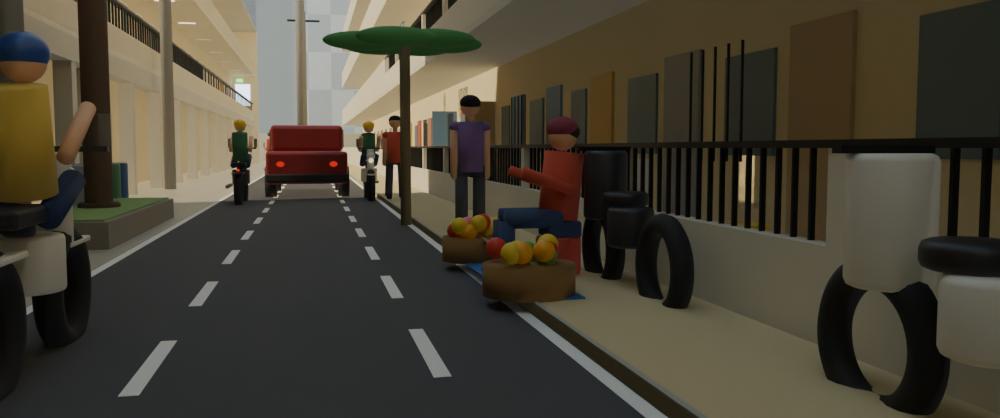
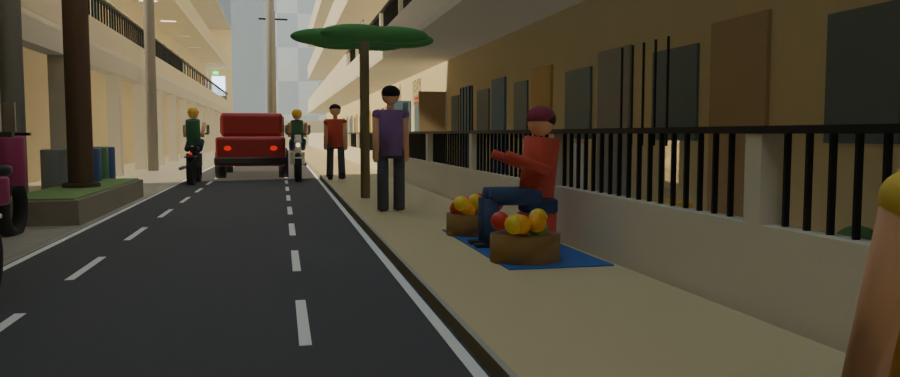
Sửa xuyên vật thể: dời lòng đường/vỉa hè/làn, quầy hàng rong nằm gọn trong vỉa hè, lối đi bộ riêng
Claude-Session: https://claude.ai/code/session_015xtvRhLRyfqVC2mbHabEYR

diff --git a/episodes/hem-co-chuyen/ho-so-02-nguoi-lam-thay/assets/boi-canh-3d/ktt_ha_noi.py b/episodes/hem-co-chuyen/ho-so-02-nguoi-lam-thay/assets/boi-canh-3d/ktt_ha_noi.py
@@ -137,15 +137,14 @@ def build(X, coll, night, mode):
 
     # ------------------------------------------------------------ PHÂN LÀN: vỉa hè phía tây cho người đi bộ, lòng đường nhựa có vạch kẻ, vạch qua đường
     YA, YB = -12.6, 56.0
-    B('via_he', -7.55, -6.5, YA, YB, GZ, GZ + 0.08, mat('#c9b88a', 0.85), coll=coll)                                  # vỉa hè nâng 8 cm
-    B('via_he_bo', -6.53, -6.5, YA, YB, GZ, GZ + 0.085, mat('#a8a496', 0.8), coll=coll)                               # bó vỉa
-    B('long_duong', -6.5, -3.4, YA, YB, GZ, GZ + 0.006, mat('#4a4a4c', 0.9), coll=coll)                                # mặt đường nhựa
+    B('via_he', -7.55, -6.05, YA, YB, GZ, GZ + 0.08, mat('#c9b88a', 0.85), coll=coll)                                  # vỉa hè nâng 8 cm, rộng 1,5 m
+    B('via_he_bo', -6.08, -6.05, YA, YB, GZ, GZ + 0.085, mat('#a8a496', 0.8), coll=coll)                               # bó vỉa
+    B('long_duong', -6.05, -3.1, YA, YB, GZ, GZ + 0.006, mat('#4a4a4c', 0.9), coll=coll)                                # mặt đường nhựa
     wl = mat('#f0eee4', 0.7)
-    for xl in (-6.45, -3.45): B(f'vach_bien{xl}', xl - 0.04, xl + 0.04, YA, YB, GZ + 0.006, GZ + 0.0085, wl, coll=coll)   # vạch biên liền
-    for xl in (-5.75, -4.45):
-        for k in range(int((YB - YA) / 2.0)): B(f'vach_phan_lan{xl}_{k}', xl - 0.04, xl + 0.04, YA + 0.2 + k * 2.0, YA + 1.2 + k * 2.0, GZ + 0.006, GZ + 0.0085, wl, coll=coll)   # vạch đứt phân làn
-    for k in range(5): B(f'vach_qua_duong{k}', -6.3 + k * 0.62, -6.0 + k * 0.62, -6.4, -4.0, GZ + 0.006, GZ + 0.0085, wl, coll=coll)   # vạch đi bộ qua đường
-    for k in range(4): B(f'vach_dung{k}', -6.45 + k * 0.75, -5.9 + k * 0.75, -3.6, -3.45, GZ + 0.006, GZ + 0.0085, wl, coll=coll) if False else None
+    for xl in (-6.0, -3.15): B(f'vach_bien{xl}', xl - 0.03, xl + 0.03, YA, YB, GZ + 0.006, GZ + 0.0085, wl, coll=coll)   # vạch biên liền
+    for xl in (-5.3, -3.75):
+        for k in range(int((YB - YA) / 2.0)): B(f'vach_phan_lan{xl}_{k}', xl - 0.03, xl + 0.03, YA + 0.2 + k * 2.0, YA + 1.2 + k * 2.0, GZ + 0.006, GZ + 0.0085, wl, coll=coll)   # vạch đứt phân làn
+    for k in range(5): B(f'vach_qua_duong{k}', -5.85 + k * 0.58, -5.6 + k * 0.58, -6.4, -4.0, GZ + 0.006, GZ + 0.0085, wl, coll=coll)   # vạch đi bộ qua đường
     # ------------------------------------------------------------ quán trà đá vỉa hè: bàn thấp, ghế nhựa, ô dù, ấm, bình thuỷ, cốc
     qx, qy = -2.4, -8.0
     B('quan_ban', qx - 0.3, qx + 0.3, qy - 0.4, qy + 0.4, GZ + 0.5, GZ + 0.54, mat('#6a4a30', 0.8), bevel=0.01, coll=coll)
@@ -238,20 +237,21 @@ def build(X, coll, night, mode):
         else: P(sphere(f'env_ktt_{name}_toc', W - 0.05, 0, 1.06, 0.11, mat(toc, 0.9), scale=(1, 1, 0.8), coll=coll)) if non == 'khan' else None
         return root
     zv = GZ + 0.08
-    # 1) bà bán rau: ngồi trên vỉa hè, nón lá, rổ rau + cân đòn, ô che nắng
-    nguoi_ngoi('ban_rau', -7.0, -1.5, zv, False, '#7a5a8a', '#2a2a2a', 'non')
-    B('rau_chieu', -6.75, -5.9 - 0.2, -2.2, -0.8, zv, zv + 0.012, mat('#a8905a', 0.9), coll=coll)
-    for k, dy in enumerate((-0.2, 0.75)):
-        cyl(f'env_ktt_ro_rau{k}', -6.4, -1.5 + dy - 0.4 + 0.45 * k, zv + 0.09, 0.28, 0.16, mat('#b08a4a', 0.9), coll=coll)
-        for j in range(9): sphere(f'env_ktt_rau{k}_{j}', -6.4 + rnd.uniform(-0.2, 0.2), -1.5 + dy - 0.4 + 0.45 * k + rnd.uniform(-0.2, 0.2), zv + 0.2 + rnd.uniform(0, 0.08), rnd.uniform(0.07, 0.11), mat(rnd.choice(['#4f8a3a', '#6aa04a', '#3a7a3a', '#8ab04a']), 0.8), scale=(1, 1, 0.6), coll=coll)
-    cyl('env_ktt_du_rau_cot', -7.3, -1.5, zv + 1.15, 0.02, 2.3, mat('#6a6a64', 0.5, 0.6), coll=coll)
-    bm = bmesh.new(); bmesh.ops.create_cone(bm, cap_ends=True, segments=16, radius1=1.2, radius2=0.03, depth=0.35); X._mesh_obj('env_ktt_du_rau', bm, (X.mx(-7.3), -1.5, zv + 2.3), mat('#d8a02a', 0.7), True, coll)
-    # 2) cô bán trái cây: khăn trùm đầu, ghế nhựa thấp, đôi thúng + quang gánh đặt xuống đất, cân
-    nguoi_ngoi('ban_trai_cay', -7.0, 14.0, zv, False, '#c4503a', '#3a4a6a', 'khan', ghe='#c24a3a')
-    cyl('env_ktt_quang_ganh', -6.55, 14.0, zv + 0.2, 0.014, 1.9, mat('#a8905a', 0.7), axis='Y', coll=coll)
-    for k, dy in enumerate((-0.85, 0.85)):
-        cyl(f'env_ktt_thung_qua{k}', -6.55, 14.0 + dy, zv + 0.1, 0.3, 0.2, mat('#8a6a3a', 0.9), coll=coll)
-        for j in range(10): sphere(f'env_ktt_trai{k}_{j}', -6.55 + rnd.uniform(-0.2, 0.2), 14.0 + dy + rnd.uniform(-0.2, 0.2), zv + 0.24 + rnd.uniform(0, 0.08), 0.07, mat(rnd.choice(['#e8a020', '#c83a2a', '#6a9a3a', '#e0c030', '#d85a8a']), 0.5), coll=coll)
-    B('trai_chieu', -6.85, -6.4, 12.9, 15.1, zv, zv + 0.01, mat('#2f66a8', 0.5), coll=coll)
+    # 1) bà bán rau: ngồi sát tường, nón lá, rổ rau + ô che nắng, tất cả trong x −7,5…−6,7
+    nguoi_ngoi('ban_rau', -7.3, -1.5, zv, False, '#7a5a8a', '#2a2a2a', 'non')
+    B('rau_chieu', -7.5, -6.72, -2.2, -0.8, zv, zv + 0.012, mat('#a8905a', 0.9), coll=coll)
+    for k in range(2):
+        cy_ = -1.5 - 0.4 + 0.8 * k
+        cyl(f'env_ktt_ro_rau{k}', -6.95, cy_, zv + 0.09, 0.24, 0.16, mat('#b08a4a', 0.9), coll=coll)
+        for j in range(9): sphere(f'env_ktt_rau{k}_{j}', -6.95 + rnd.uniform(-0.17, 0.17), cy_ + rnd.uniform(-0.17, 0.17), zv + 0.2 + rnd.uniform(0, 0.08), rnd.uniform(0.06, 0.1), mat(rnd.choice(['#4f8a3a', '#6aa04a', '#3a7a3a', '#8ab04a']), 0.8), scale=(1, 1, 0.6), coll=coll)
+    cyl('env_ktt_du_rau_cot', -7.5, -1.5, zv + 1.15, 0.02, 2.3, mat('#6a6a64', 0.5, 0.6), coll=coll)
+    bm = bmesh.new(); bmesh.ops.create_cone(bm, cap_ends=True, segments=16, radius1=1.0, radius2=0.03, depth=0.35); X._mesh_obj('env_ktt_du_rau', bm, (X.mx(-7.5), -1.5, zv + 2.3), mat('#d8a02a', 0.7), True, coll)
+    # 2) cô bán trái cây: khăn trùm đầu, ghế nhựa thấp, đôi thúng + quang gánh đặt xuống đất
+    nguoi_ngoi('ban_trai_cay', -7.3, 14.0, zv, False, '#c4503a', '#3a4a6a', 'khan', ghe='#c24a3a')
+    cyl('env_ktt_quang_ganh', -6.95, 14.0, zv + 0.2, 0.014, 1.7, mat('#a8905a', 0.7), axis='Y', coll=coll)
+    for k, dy in enumerate((-0.75, 0.75)):
+        cyl(f'env_ktt_thung_qua{k}', -6.95, 14.0 + dy, zv + 0.1, 0.26, 0.2, mat('#8a6a3a', 0.9), coll=coll)
+        for j in range(10): sphere(f'env_ktt_trai{k}_{j}', -6.95 + rnd.uniform(-0.17, 0.17), 14.0 + dy + rnd.uniform(-0.17, 0.17), zv + 0.24 + rnd.uniform(0, 0.08), 0.07, mat(rnd.choice(['#e8a020', '#c83a2a', '#6a9a3a', '#e0c030', '#d85a8a']), 0.5), coll=coll)
+    B('trai_chieu', -7.5, -6.72, 12.9, 15.1, zv, zv + 0.01, mat('#2f66a8', 0.5), coll=coll)
     # 3) chú bán bánh mì: mũ lưỡi trai, ngồi sau xe đẩy
     nguoi_ngoi('ban_banh_mi', -1.75, -5.2, GZ, True, '#e8e4d8', '#2a2a2a', 'mu', ghe='#e3b84a')

diff --git a/episodes/hem-co-chuyen/ho-so-02-nguoi-lam-thay/assets/boi-canh-3d/canh_dong.py b/episodes/hem-co-chuyen/ho-so-02-nguoi-lam-thay/assets/boi-canh-3d/canh_dong.py
@@ -107,8 +107,8 @@ def build(X, coll, night, mode):
     cols = ['#b3362c', '#1f3a5f', '#d8d2c2', '#2f2f2f', '#e0a030', '#3d6e5a']
     hel = ['#e8e8e0', '#d83a30', '#2a4a8a', '#f0c030', '#1a1a1a']
     for k in range(5):   # sân: làn xe máy phía đông đi +y (x=-3,9), tốc độ đều để không đuổi kịp nhau
-        bike(f'env_cd_xm_san{k}', -3.9, k * 12.0, 0.24, 62.0, cols[k % 6], hel[k % 5], 1)
-    bike('env_cd_xm_san_nam', -6.3, 30.0, 0.2, 62.0, cols[2], hel[3], -1)   # làn phía tây đi −y
+        bike(f'env_cd_xm_san{k}', -3.45, k * 12.0, 0.24, 62.0, cols[k % 6], hel[k % 5], 1)
+    bike('env_cd_xm_san_nam', -5.55, 30.0, 0.2, 62.0, cols[2], hel[3], -1)   # làn phía tây đi −y
     for k in range(3):   # hẻm bên cửa sổ phòng Nam
         bike(f'env_cd_xm_hem{k}', W + T + 1.85, k * 17.0, 0.2 + 0.04 * k, 56.0, cols[(k + 2) % 6], hel[(k + 1) % 5], 1)
 
@@ -117,12 +117,12 @@ def build(X, coll, night, mode):
         root = bpy.data.objects.new(name, None); coll.objects.link(root); root.location = (X.mx(lane_x), y_start, GZ)
         body, glass, blk = mat(color, 0.3, 0.3), mat('#1c2630', 0.05), mat('#1a1a1a', 0.7)
         def P(nm, ob): ob.parent = root; ob.visible_shadow = True; return ob
-        P('than', X.box(f'{name}_than', W - 0.8, W + 0.8, -2.0, 2.0, 0.3, 0.95, body, bevel=0.06, coll=coll))
-        P('cabin', X.box(f'{name}_cabin', W - 0.74, W + 0.74, -1.1, 0.95, 0.95, 1.5, body, bevel=0.08, coll=coll))
-        P('kinh', X.box(f'{name}_kinh', W - 0.76, W + 0.76, -1.0, 0.85, 1.02, 1.42, glass, bevel=0.03, coll=coll))
-        P('cot', X.box(f'{name}_cot', W - 0.77, W + 0.77, -0.12, 0.0, 1.0, 1.44, body, coll=coll))
-        P('can_t', X.box(f'{name}_can_t', W - 0.82, W + 0.82, 1.9, 2.08, 0.34, 0.5, blk, bevel=0.03, coll=coll)); P('can_s', X.box(f'{name}_can_s', W - 0.82, W + 0.82, -2.08, -1.9, 0.34, 0.5, blk, bevel=0.03, coll=coll))
-        for sx in (-0.74, 0.74):
+        P('than', X.box(f'{name}_than', W - 0.75, W + 0.75, -2.0, 2.0, 0.3, 0.95, body, bevel=0.06, coll=coll))
+        P('cabin', X.box(f'{name}_cabin', W - 0.7, W + 0.7, -1.1, 0.95, 0.95, 1.5, body, bevel=0.08, coll=coll))
+        P('kinh', X.box(f'{name}_kinh', W - 0.72, W + 0.72, -1.0, 0.85, 1.02, 1.42, glass, bevel=0.03, coll=coll))
+        P('cot', X.box(f'{name}_cot', W - 0.73, W + 0.73, -0.12, 0.0, 1.0, 1.44, body, coll=coll))
+        P('can_t', X.box(f'{name}_can_t', W - 0.78, W + 0.78, 1.9, 2.08, 0.34, 0.5, blk, bevel=0.03, coll=coll)); P('can_s', X.box(f'{name}_can_s', W - 0.78, W + 0.78, -2.08, -1.9, 0.34, 0.5, blk, bevel=0.03, coll=coll))
+        for sx in (-0.7, 0.7):
             for dy in (-1.2, 1.25):
                 P('banh', X.cyl(f'{name}_banh{sx}{dy}', W + sx, dy, 0.32, 0.32, 0.22, blk, axis='X', coll=coll))
             P('den_t', X.sphere(f'{name}_den_t{sx}', W + sx * 0.7, 2.0, 0.7, 0.09, M.emission('cd_den_truoc', '#fff0c0', 40.0 if night else 1.2), coll=coll, scale=(1, 0.5, 0.7)))
@@ -131,8 +131,8 @@ def build(X, coll, night, mode):
         _drv(root, 'location', 1, f'{-12 if direction > 0 else 55}+{direction}*fmod({y_start:.1f}+frame*{speed:.3f},{span:.1f})')
         _fade(root, f'fmod({y_start:.1f}+frame*{speed:.3f},{span:.1f})', span, 4.0)
         root.location[1] = y_start
-    oto('env_cd_oto0', -5.1, 6.0, 0.1, 66.0, '#c9c9c4', 1)
-    oto('env_cd_oto1', -5.1, 39.0, 0.1, 66.0, '#7a2a2a', 1)
+    oto('env_cd_oto0', -4.55, 6.0, 0.1, 66.0, '#c9c9c4', 1)
+    oto('env_cd_oto1', -4.55, 39.0, 0.1, 66.0, '#7a2a2a', 1)
 
     # ------------------------------------------------------------ người đi bộ: thân, đầu, 2 chân + 2 tay đung đưa (driver sin theo khung hình)
     def nguoi(name, lane_x, y0, speed, span, shirt, trouser, direction=1, kid=False):
@@ -162,7 +162,7 @@ def build(X, coll, night, mode):
         _fade(root, f'fmod({y0:.1f}+frame*{speed:.4f},{span:.1f})', span, 2.0)
         root.location[1] = y0
     shirts = ['#4a78a8', '#c4503a', '#6a9a5a', '#e0c050', '#7a5a8a', '#eeeeee']; tr = ['#2a2a3a', '#4a4a50', '#3a4a6a']
-    for k in range(6): nguoi(f'env_cd_nguoi{k}', -6.9 if k % 2 == 0 else -6.65, k * 7.0, 0.05, 41.0, shirts[k % 6], tr[k % 3], 1 if k % 2 == 0 else -1, kid=(k == 3))
+    for k in range(6): nguoi(f'env_cd_nguoi{k}', -6.5 if k % 2 == 0 else -6.25, k * 7.0, 0.05, 41.0, shirts[k % 6], tr[k % 3], 1 if k % 2 == 0 else -1, kid=(k == 3))
     for k in range(2): nguoi(f'env_cd_nguoi_hem{k}', W + T + 1.3, 10 + k * 14, 0.05, 36.0, shirts[(k + 3) % 6], tr[k], 1)
 
     # ------------------------------------------------------------ chim bay ngang bầu trời (thân + 2 cánh vỗ)

diff --git a/episodes/hem-co-chuyen/ho-so-02-nguoi-lam-thay/assets/boi-canh-3d/moi_truong.py b/episodes/hem-co-chuyen/ho-so-02-nguoi-lam-thay/assets/boi-canh-3d/moi_truong.py
@@ -51,7 +51,7 @@ def build(X, m, coll, night, hl_y1):
         for _n in _wet.node_tree.nodes:
             if _n.type == 'BSDF_PRINCIPLED': _n.inputs['Roughness'].default_value = 0.1
     B('san_tang1', -30, EX, -14, 96, GZ - 0.2, GZ, (M.tiles('env_san_uot', '#7d7a6c', '#575448', 0.6) if getattr(X, 'MODE_HIEN_TAI', 'day') == 'rain' else M.tiles('env_san', '#b3ad9b', '#8a8577', 0.6)), coll=coll)
-    for (x0, x1, y0, y1, c) in [(-3.2, -2.1, 4, 9, '#7b9a5b'), (-3.2, -2.1, 11, 14, '#6f9455'), (-3.2, -2.1, 17, 21, '#7b9a5b'), (-3.0, -2.0, -2.2, 0.8, '#6f9455')]:
+    for (x0, x1, y0, y1, c) in [(-3.0, -2.1, 4, 9, '#7b9a5b'), (-3.0, -2.1, 11, 14, '#6f9455'), (-3.0, -2.1, 17, 21, '#7b9a5b'), (-3.0, -2.1, -2.2, 0.8, '#6f9455')]:
         B('bon_cay', x0, x1, y0, y1, GZ, GZ + 0.28, plaster('#8a8272'), bevel=0.01, coll=coll)
         B('dat_bon', x0 + 0.06, x1 - 0.06, y0 + 0.06, y1 - 0.06, GZ + 0.26, GZ + 0.3, mat(c, 0.95), coll=coll)
     # cột + dầm tầng trệt dưới hành lang, tường tầng trệt có cửa cuốn
@@ -184,7 +184,7 @@ def build(X, m, coll, night, hl_y1):
         for k in range(9):
             a = rnd.uniform(0, 6.283); rr = rnd.uniform(0.0, 1.1)
             sphere(f'env_tan{x:.0f}{y:.0f}{k}', x + rr * math.cos(a), y + rr * math.sin(a), GZ + h * 0.72 + rnd.uniform(-0.3, 1.0), rnd.uniform(0.7, 1.15), mat(rnd.choice([tint, '#5f8d54', '#44704a']), 0.85), scale=(1, 1, 0.8), coll=coll)
-    tree(-2.65, 6.5, 6.5); tree(-2.65, 19.0, 7.5); tree(-2.6, 12.6, 3.2, '#6f9455')
+    tree(-2.55, 6.5, 6.5); tree(-2.55, 19.0, 7.5); tree(-2.55, 12.6, 3.2, '#6f9455')
     tree_old = None
     for (x, y, h) in [(-6.5, 5.0, 2.0), (-6.4, 19.0, 2.4)]:  # cau/dừa cảnh
         cyl(f'env_cau{x:.0f}{y:.0f}', x, y, GZ + h / 2, 0.07, h, mat('#7a6a4a', 0.9), coll=coll)
@@ -201,7 +201,6 @@ def build(X, m, coll, night, hl_y1):
     colors = ['#b3362c', '#1f3a5f', '#d8d2c2', '#2f2f2f', '#e0a030', '#3d6e5a', '#8a2f5a']
     for i, yp in enumerate([1.2, 2.5, 3.8, 9.6, 10.9, 14.5, 15.8]):   # xe đỗ sát hè phía nhà trọ, chừa làn đường giữa sân
         xe_may(-2.5 + rnd.uniform(-0.1, 0.1), yp, math.pi / 2, colors[i % 7])
-    for i, yp in enumerate([10.2, 13.3]): xe_may(-7.3, yp, math.pi / 2, colors[(i + 2) % 7])
     for i in range(5):  # thùng rác, chậu, xô
         cyl(f'env_thung_rac{i}', -2.2, 19.5 + i * 0.5, GZ + 0.4, 0.28, 0.8, mat(rnd.choice(['#3b6e4b', '#2b4a7a', '#8a8a8a']), 0.55), coll=coll, bevel=0.02)
     # cột điện + dây

diff --git a/episodes/hem-co-chuyen/ho-so-02-nguoi-lam-thay/assets/boi-canh-3d/xay_phong_tro.py b/episodes/hem-co-chuyen/ho-so-02-nguoi-lam-thay/assets/boi-canh-3d/xay_phong_tro.py
@@ -718,7 +718,7 @@ CAMERAS = {  # tên: (vị trí, điểm nhìn, tiêu cự mm)
     'TROI_NANG': ((-4.7, 0.0, 22.0), (20.8, 39.0, 62.0), 24),   # ngước nhìn mặt trời + mây
     'TROI_TRANG': ((-4.7, 0.0, 22.0), (-22.0, -30.0, 71.0), 24),   # ngước nhìn trăng
     'SAN_XE': ((-7.0, -12.0, -1.6), (-4.8, 0.0, -2.4), 30),   # ngang tầm mắt nhìn dọc sân: xe, ô tô, người
-    'VIA_HE': ((-5.6, 3.2, -1.9), (-7.0, -1.5, -2.5), 30),   # nhìn dọc vỉa hè: người bán ngồi ven đường
+    'VIA_HE': ((-5.0, 3.2, -1.9), (-7.1, -1.5, -2.5), 30),   # nhìn dọc vỉa hè: người bán ngồi ven đường
     'VIA_HE_2': ((-5.2, 8.0, -1.9), (-7.0, 16.0, -2.5), 30),
     'GOC_DO_GUONG': ((-1.6, -5.2, -1.9), (-0.15, -7.0, -1.9), 40),   # cận chiếc gương cũ bám bụi
     'TUONG_CUA': ((2.5, 1.2, 1.3), (0.0, 1.2, 0.9), 28),   # nhìn tường cửa từ phía cửa sổ (kiểm vệt nắng sớm/chiều)
